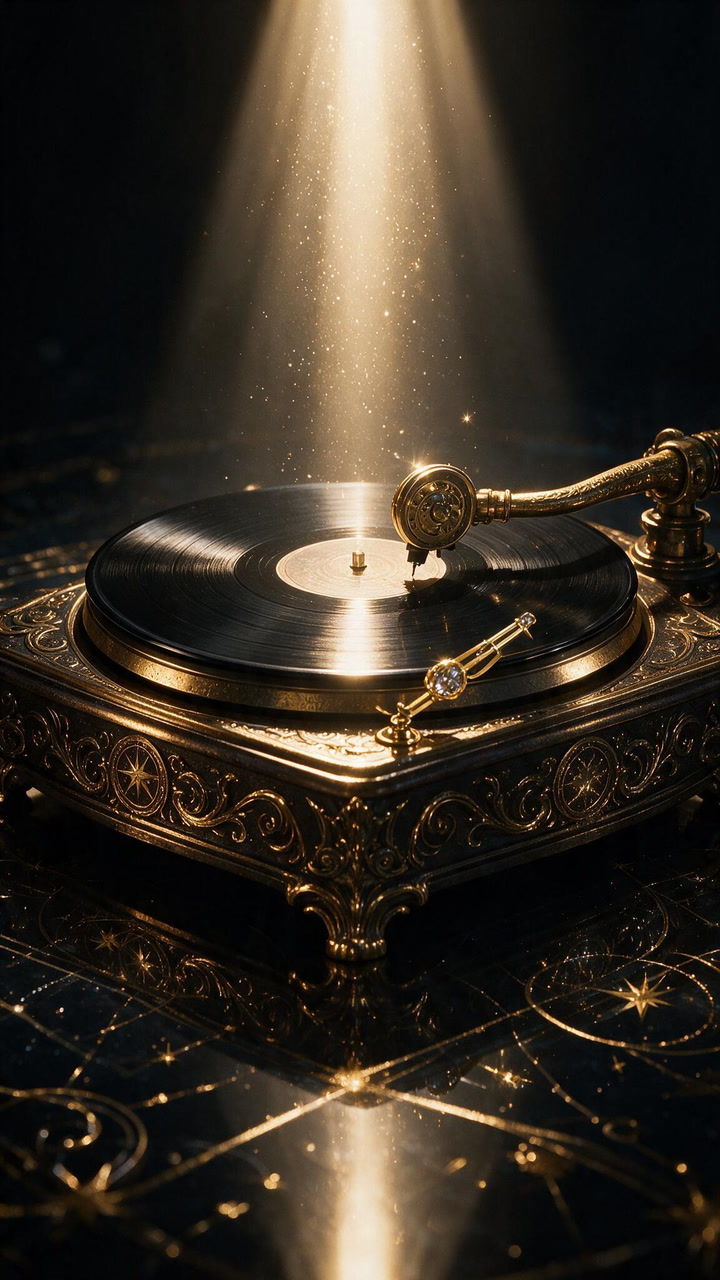
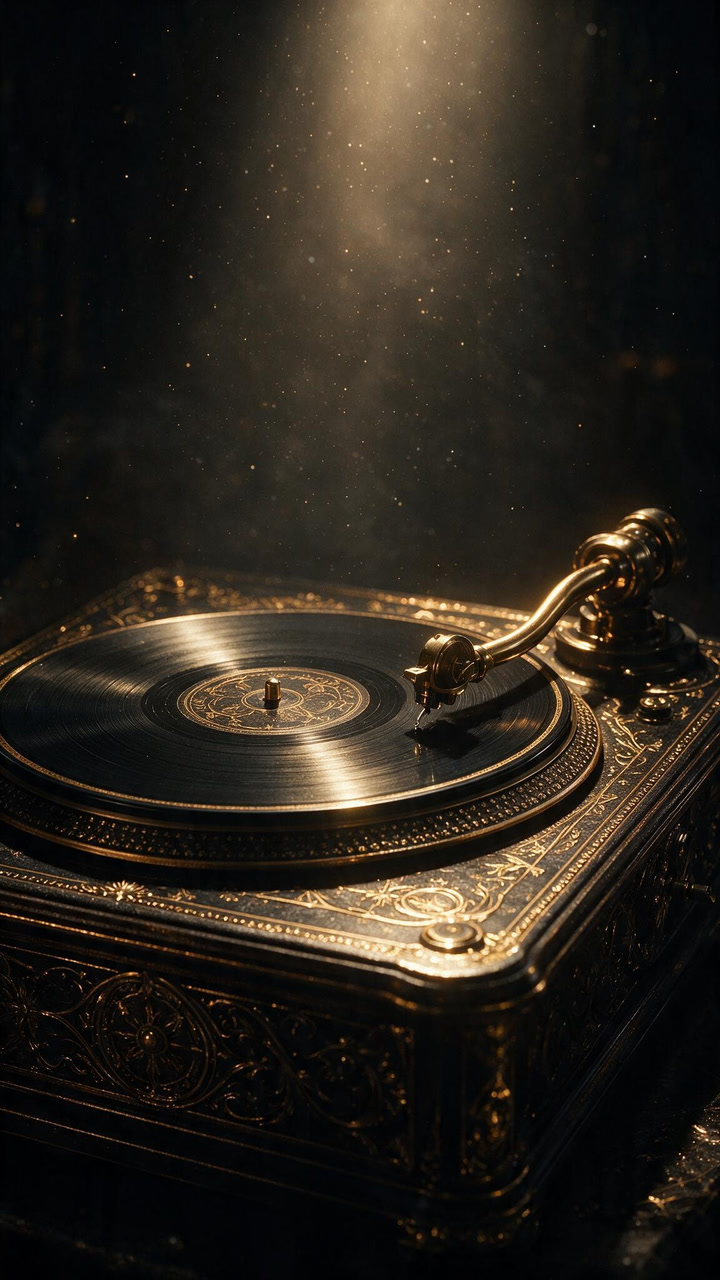
UI art: new pictures [skip ci]

diff --git a/apps/web/public/onboarding/s/last-run.md b/apps/web/public/onboarding/s/last-run.md
@@ -1,8 +1,5 @@
-# UI art — 2026-10-26T01:39:56.527Z
+# UI art — 2026-10-26T01:44:28.872Z
 
-Seedream 5.0 Pro / 4枚 / 約7円
+Seedream 5.0 Pro / 1枚 / 約8円
 
-- ✅ kimorin-inv
-- ✅ kimorin-inv-ring
-- ✅ rec-meal
-- ❌ sig-f4-turntable: Error: 500 {"data":[{"taskType":"imageInference","imageUUID":"c0803721-b428-48f0-a7fb-0077f39c6604","taskUUID":"e0f3a205-5245-47e6-9189-603f9715f401","cost":0.05457,"seed":244210366,"imageURL":"https://im.runware.ai/image/os/a06dlim3/ws/3/ii/c0803721-b428-48f0-a7fb-0077f39c6604.jpg"}]}
+- ✅ sig-f4-turntable

diff --git a/apps/web/public/atelier/raw/last-run.md b/apps/web/public/atelier/raw/last-run.md
@@ -1,4 +1,4 @@
-# UI art — 2026-10-26T01:39:56.562Z
+# UI art — 2026-10-26T01:44:28.909Z
 
 Seedream 5.0 Pro / 0枚 / 約0円
 

diff --git a/apps/web/public/dj/art/last-run.md b/apps/web/public/dj/art/last-run.md
@@ -1,4 +1,4 @@
-# UI art — 2026-10-26T01:35:57.021Z
+# UI art — 2026-10-26T01:42:44.375Z
 
 Seedream 5.0 Pro / 0枚 / 約0円
 

diff --git a/apps/web/public/ui/parts/raw/last-run.md b/apps/web/public/ui/parts/raw/last-run.md
@@ -1,4 +1,4 @@
-# UI art — 2026-10-26T01:39:56.597Z
+# UI art — 2026-10-26T01:44:28.943Z
 
 Seedream 5.0 Pro / 0枚 / 約0円
 
